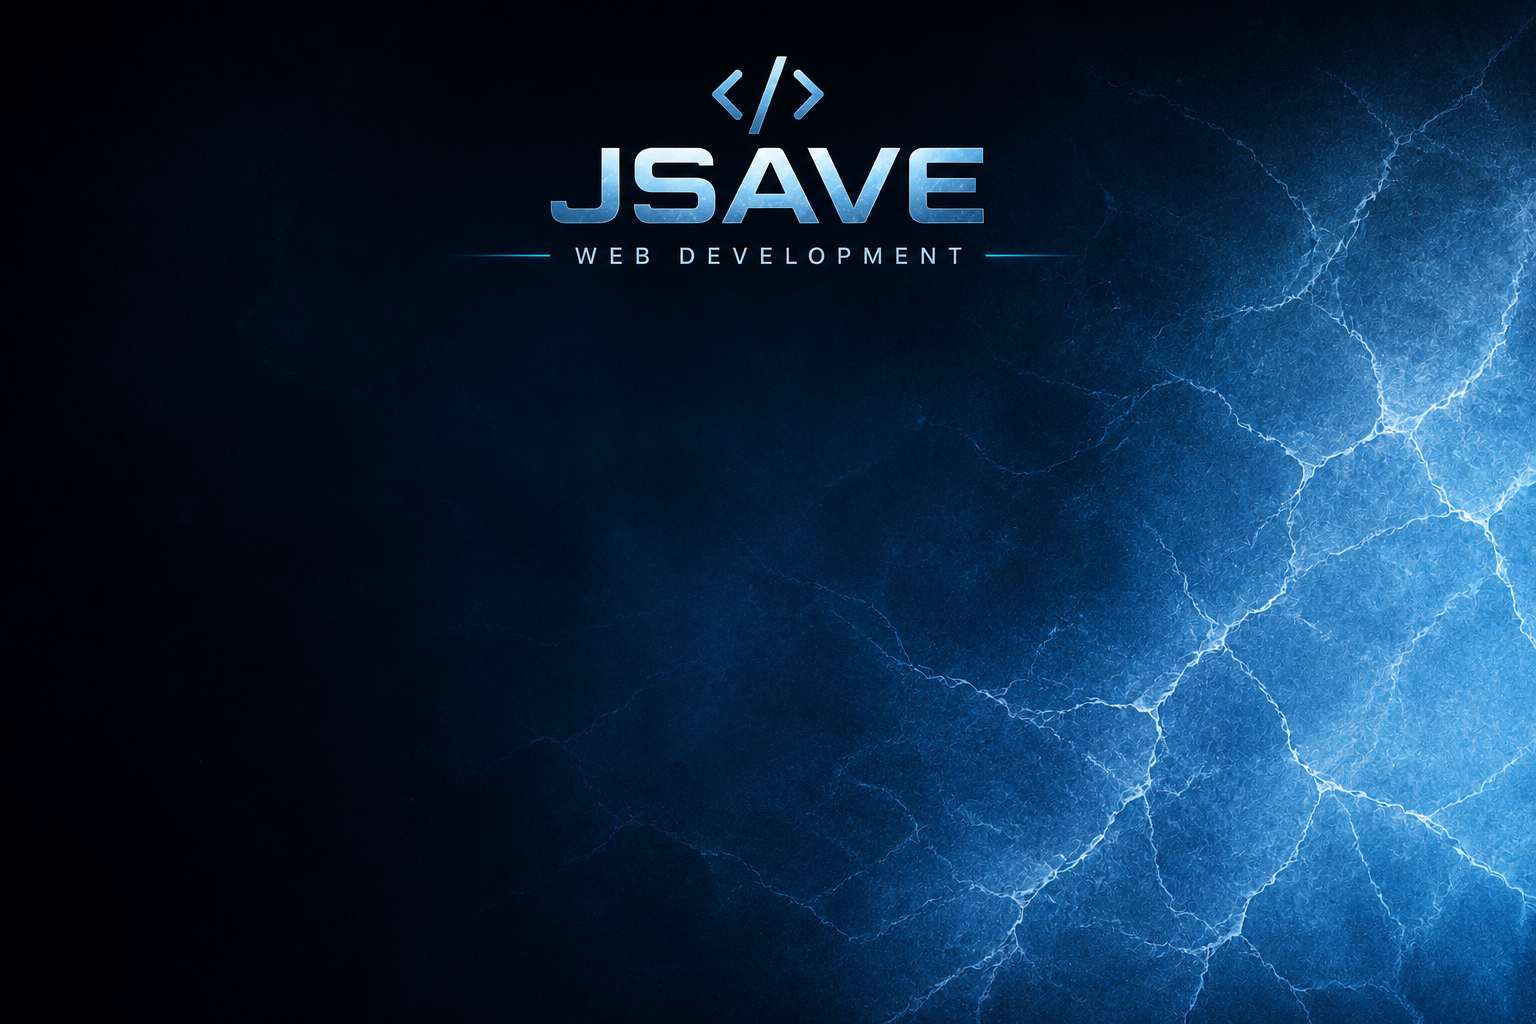
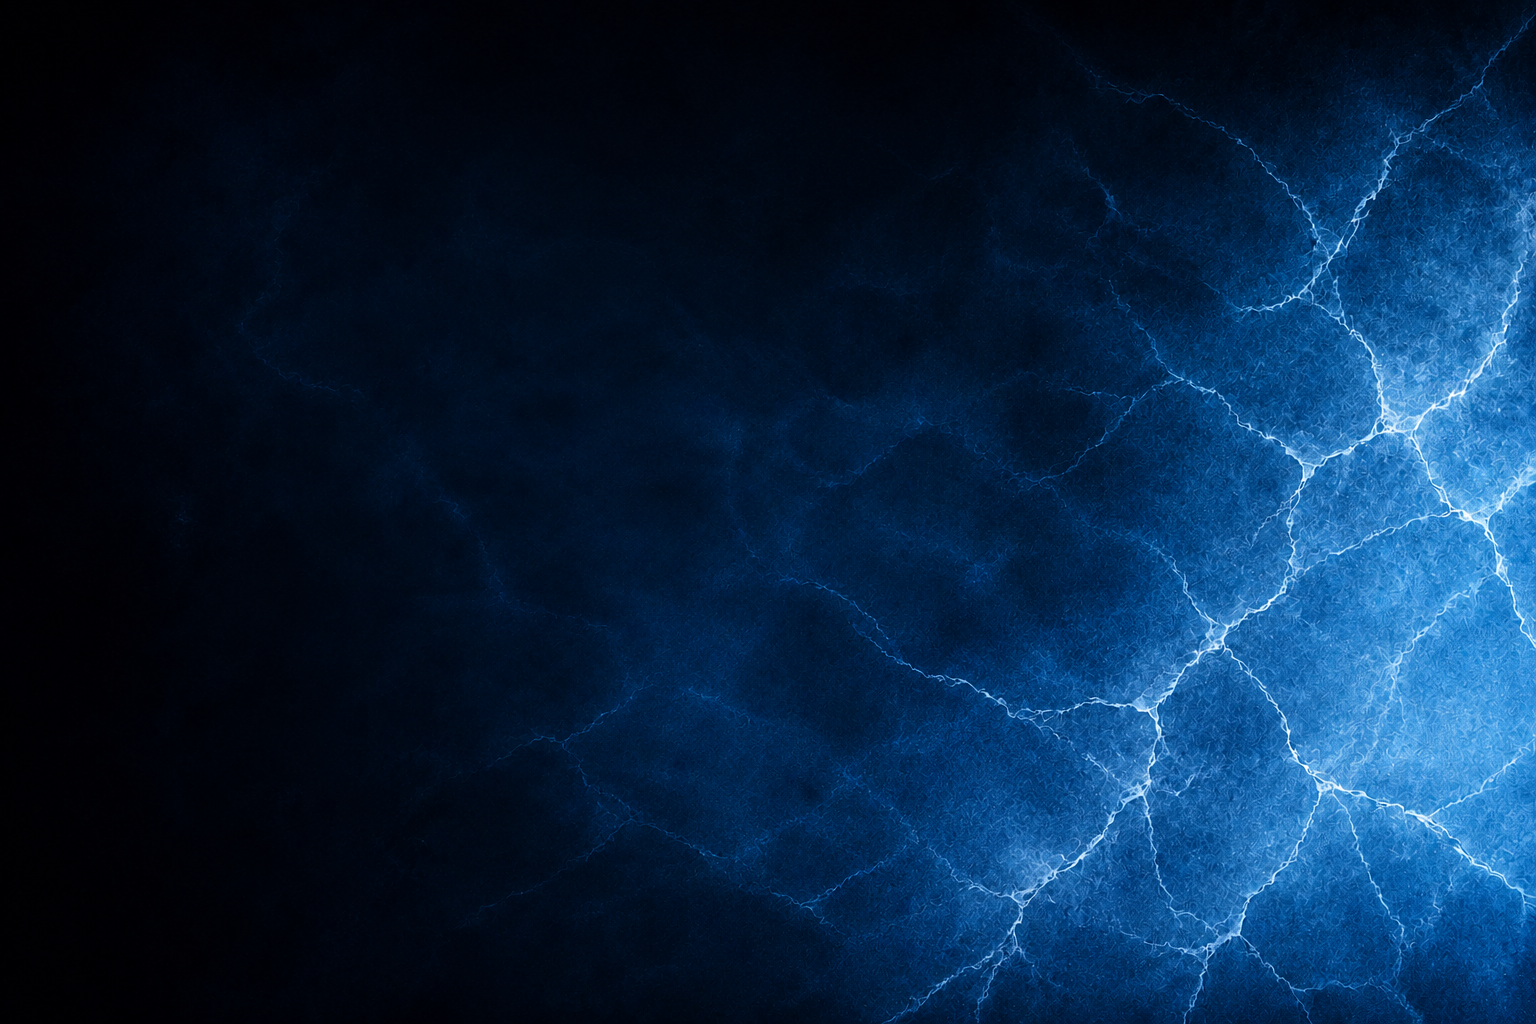
Add files via upload

diff --git a/JSAVE.css b/JSAVE.css
@@ -9,33 +9,39 @@ html, body {
   font-family: Arial, sans-serif;
 }
 
+.logo-container {
+  display: flex;
+  justify-content: center;
+  margin-top: -150px;
+  margin-bottom: -100px;
+}
+
+.logo-container img {
+  width: 1000px;
+  max-width: 95%;
+  height: auto;
+}
+
 .hero {
-  height: 100vh;              /* makes container full screen height */
-  display: flex;              /* enables flex layout */
-  flex-direction: column;     /* stack items vertically */ 
-  justify-content: center;    /* centers vertically */
-  align-items: center;        /* centers horizontally */
-  text-align: center;         /* centers text inside elements */
-  color: #8196aa;
-  margin: 0;
-  box-sizing: border-box;
+  flex: 1;
+  display: flex;
+  flex-direction: column;
+  justify-content: flex-start;
+  align-items: center;
+  text-align: center;
 }
 
 .about-main {
-  flex: 1;                         /* pushes footer to bottom */
-  display: flex;                   /* enables flexbox layout */
-  flex-direction: column;           /* stacks content vertically */
-  align-items: center;              /* centers the content container */
-  padding-top: 250px;               /* moves content down */
-  box-sizing: border-box;           /* includes padding in height calculation */
+  flex: 1;
+  display: flex;
+  flex-direction: column;
+  justify-content: flex-start;
+  align-items: center;
+  text-align: center;
 }
 
 .about-content { 
-  width: 100%;                      /* allows content to span the page */
-  display: flex;                    /* enables flexbox layout */
-  flex-direction: column;           /* stacks paragraphs vertically */
-  align-items: center;              /* centers paragraphs horizontally */
-  text-align: center;               /* centers text inside paragraphs */
+  text-align: center;
 }
   
 .about-content h3 {
@@ -90,11 +96,12 @@ html, body {
 }
 
 .portfolio-main {
-  flex: 1;                    /* pushes footer to bottom */
-  display: flex;              /* enables flexbox */
-  flex-direction: column;     /* stacks content vertically */
-  padding: 250px 0px 0px;     /* spacing around grid */
-  box-sizing: border-box;     /* keeps padding included in layout */
+  flex: 1;
+  display: flex;
+  flex-direction: column;
+  justify-content: flex-start;
+  align-items: center;
+  text-align: center;
 }
 
 .project-grid {
@@ -128,6 +135,15 @@ html, body {
 
 /* Responsiveness */
 @media (max-width: 768px) {
+	
+   .logo-container {
+    margin-top: -50px;
+    margin-bottom: -75px;
+  }
+
+  .logo-container img {
+    width: 500px;
+  }
 
   .navbar {
     position: static;
@@ -145,11 +161,11 @@ html, body {
   }
 
   .about-main {
-    padding-top: 125px;
+    padding-top: 0px;
   }
 
   .portfolio-main {
-    padding-top: 115px;
+    padding-top: 0px;
   }
 
   .hero h1 {
@@ -162,6 +178,15 @@ html, body {
 }
 
 @media (max-width: 480px) {
+	
+   .logo-container {
+    margin-top: -25px;
+    margin-bottom: -50px;
+  }
+
+  .logo-container img {
+    width: 320px;
+  }
 
   .navbar {
     position: static;
@@ -184,11 +209,11 @@ html, body {
   }
 
   .about-main {
-    padding-top: 125px;
+    padding-top: 0px;
   }
 
   .portfolio-main {
-    padding-top: 115px;
+    padding-top: 0px;
   }
 
   .project-grid {

diff --git a/about.html b/about.html
@@ -7,6 +7,12 @@
     <meta name="keywords" content="web development, front-end developer, HTML, CSS, JavaScript, responsive web design, small business websites, portfolio website, custom website, website design, JSAVE Web Development">
 	<meta name="viewport" content="width=device-width, initial-scale=1.0">
     <meta name="author" content="John Welsh">
+	<meta property="og:title" content="About | JSAVE Web Development">
+    <meta property="og:description" content="Learn about the mission, values, and experience behind JSAVE Web Development.">
+    <meta property="og:image" content="https://jwelsh0311.github.io/JSAVE/thumbnail.png">
+    <meta property="og:url" content="https://jwelsh0311.github.io/JSAVE/about.html">
+    <meta property="og:type" content="website">
+	
 	<link rel="stylesheet" type="text/css" href="JSAVE.css">
 	<link rel="stylesheet" href="https://cdnjs.cloudflare.com/ajax/libs/font-awesome/6.5.0/css/all.min.css">
 </head>
@@ -19,6 +25,10 @@
    <span class="pipe">|</span>
   <a href="about.html" class="active">About</a>
 </nav>
+
+<div class="logo-container">
+  <img src="jsave-logo.png" alt="JSAVE Web Development Logo">
+</div>
 
 <main class="about-main">
  <section class="about-content">

diff --git a/index.html b/index.html
@@ -7,6 +7,12 @@
     <meta name="keywords" content="web development, front-end developer, HTML, CSS, JavaScript, responsive web design, small business websites, portfolio website, custom website, website design, JSAVE Web Development">
 	<meta name="viewport" content="width=device-width, initial-scale=1.0">
     <meta name="author" content="John Welsh">
+	<meta property="og:title" content="JSAVE Web Development">
+    <meta property="og:description" content="Professional front-end web development using HTML, CSS, and JavaScript.">
+    <meta property="og:image" content="https://jwelsh0311.github.io/JSAVE/thumbnail.png">
+    <meta property="og:url" content="https://jwelsh0311.github.io/JSAVE/">
+    <meta property="og:type" content="website">
+	
 	<link rel="stylesheet" type="text/css" href="JSAVE.css">
 	<link rel="stylesheet" href="https://cdnjs.cloudflare.com/ajax/libs/font-awesome/6.5.0/css/all.min.css">
 </head>
@@ -19,6 +25,10 @@
    <span class="pipe">|</span>
   <a href="about.html">About</a>
 </nav>
+
+<div class="logo-container">
+  <img src="jsave-logo.png" alt="JSAVE Web Development Logo">
+</div>
 
 <section class="hero">
 <h1 id="quote"></h1>

diff --git a/portfolio.html b/portfolio.html
@@ -7,6 +7,12 @@
     <meta name="keywords" content="web development, front-end developer, HTML, CSS, JavaScript, responsive web design, small business websites, portfolio website, custom website, website design, JSAVE Web Development">
 	<meta name="viewport" content="width=device-width, initial-scale=1.0">
     <meta name="author" content="John Welsh">
+	<meta property="og:title" content="JSAVE Web Development | Portfolio">
+    <meta property="og:description" content="View examples of responsive websites and web applications built by JSAVE Web Development.">
+    <meta property="og:image" content="https://jwelsh0311.github.io/JSAVE/thumbnail.png">
+    <meta property="og:url" content="https://jwelsh0311.github.io/JSAVE/portfolio.html">
+    <meta property="og:type" content="website">
+	
 	<link rel="stylesheet" type="text/css" href="JSAVE.css">
 	<link rel="stylesheet" href="https://cdnjs.cloudflare.com/ajax/libs/font-awesome/6.5.0/css/all.min.css">
 </head>
@@ -19,6 +25,10 @@
    <span class="pipe">|</span>
   <a href="about.html">About</a>
 </nav>
+
+<div class="logo-container">
+  <img src="jsave-logo.png" alt="JSAVE Web Development Logo">
+</div>
 
 <main class="portfolio-main">
 <div class="project-grid">